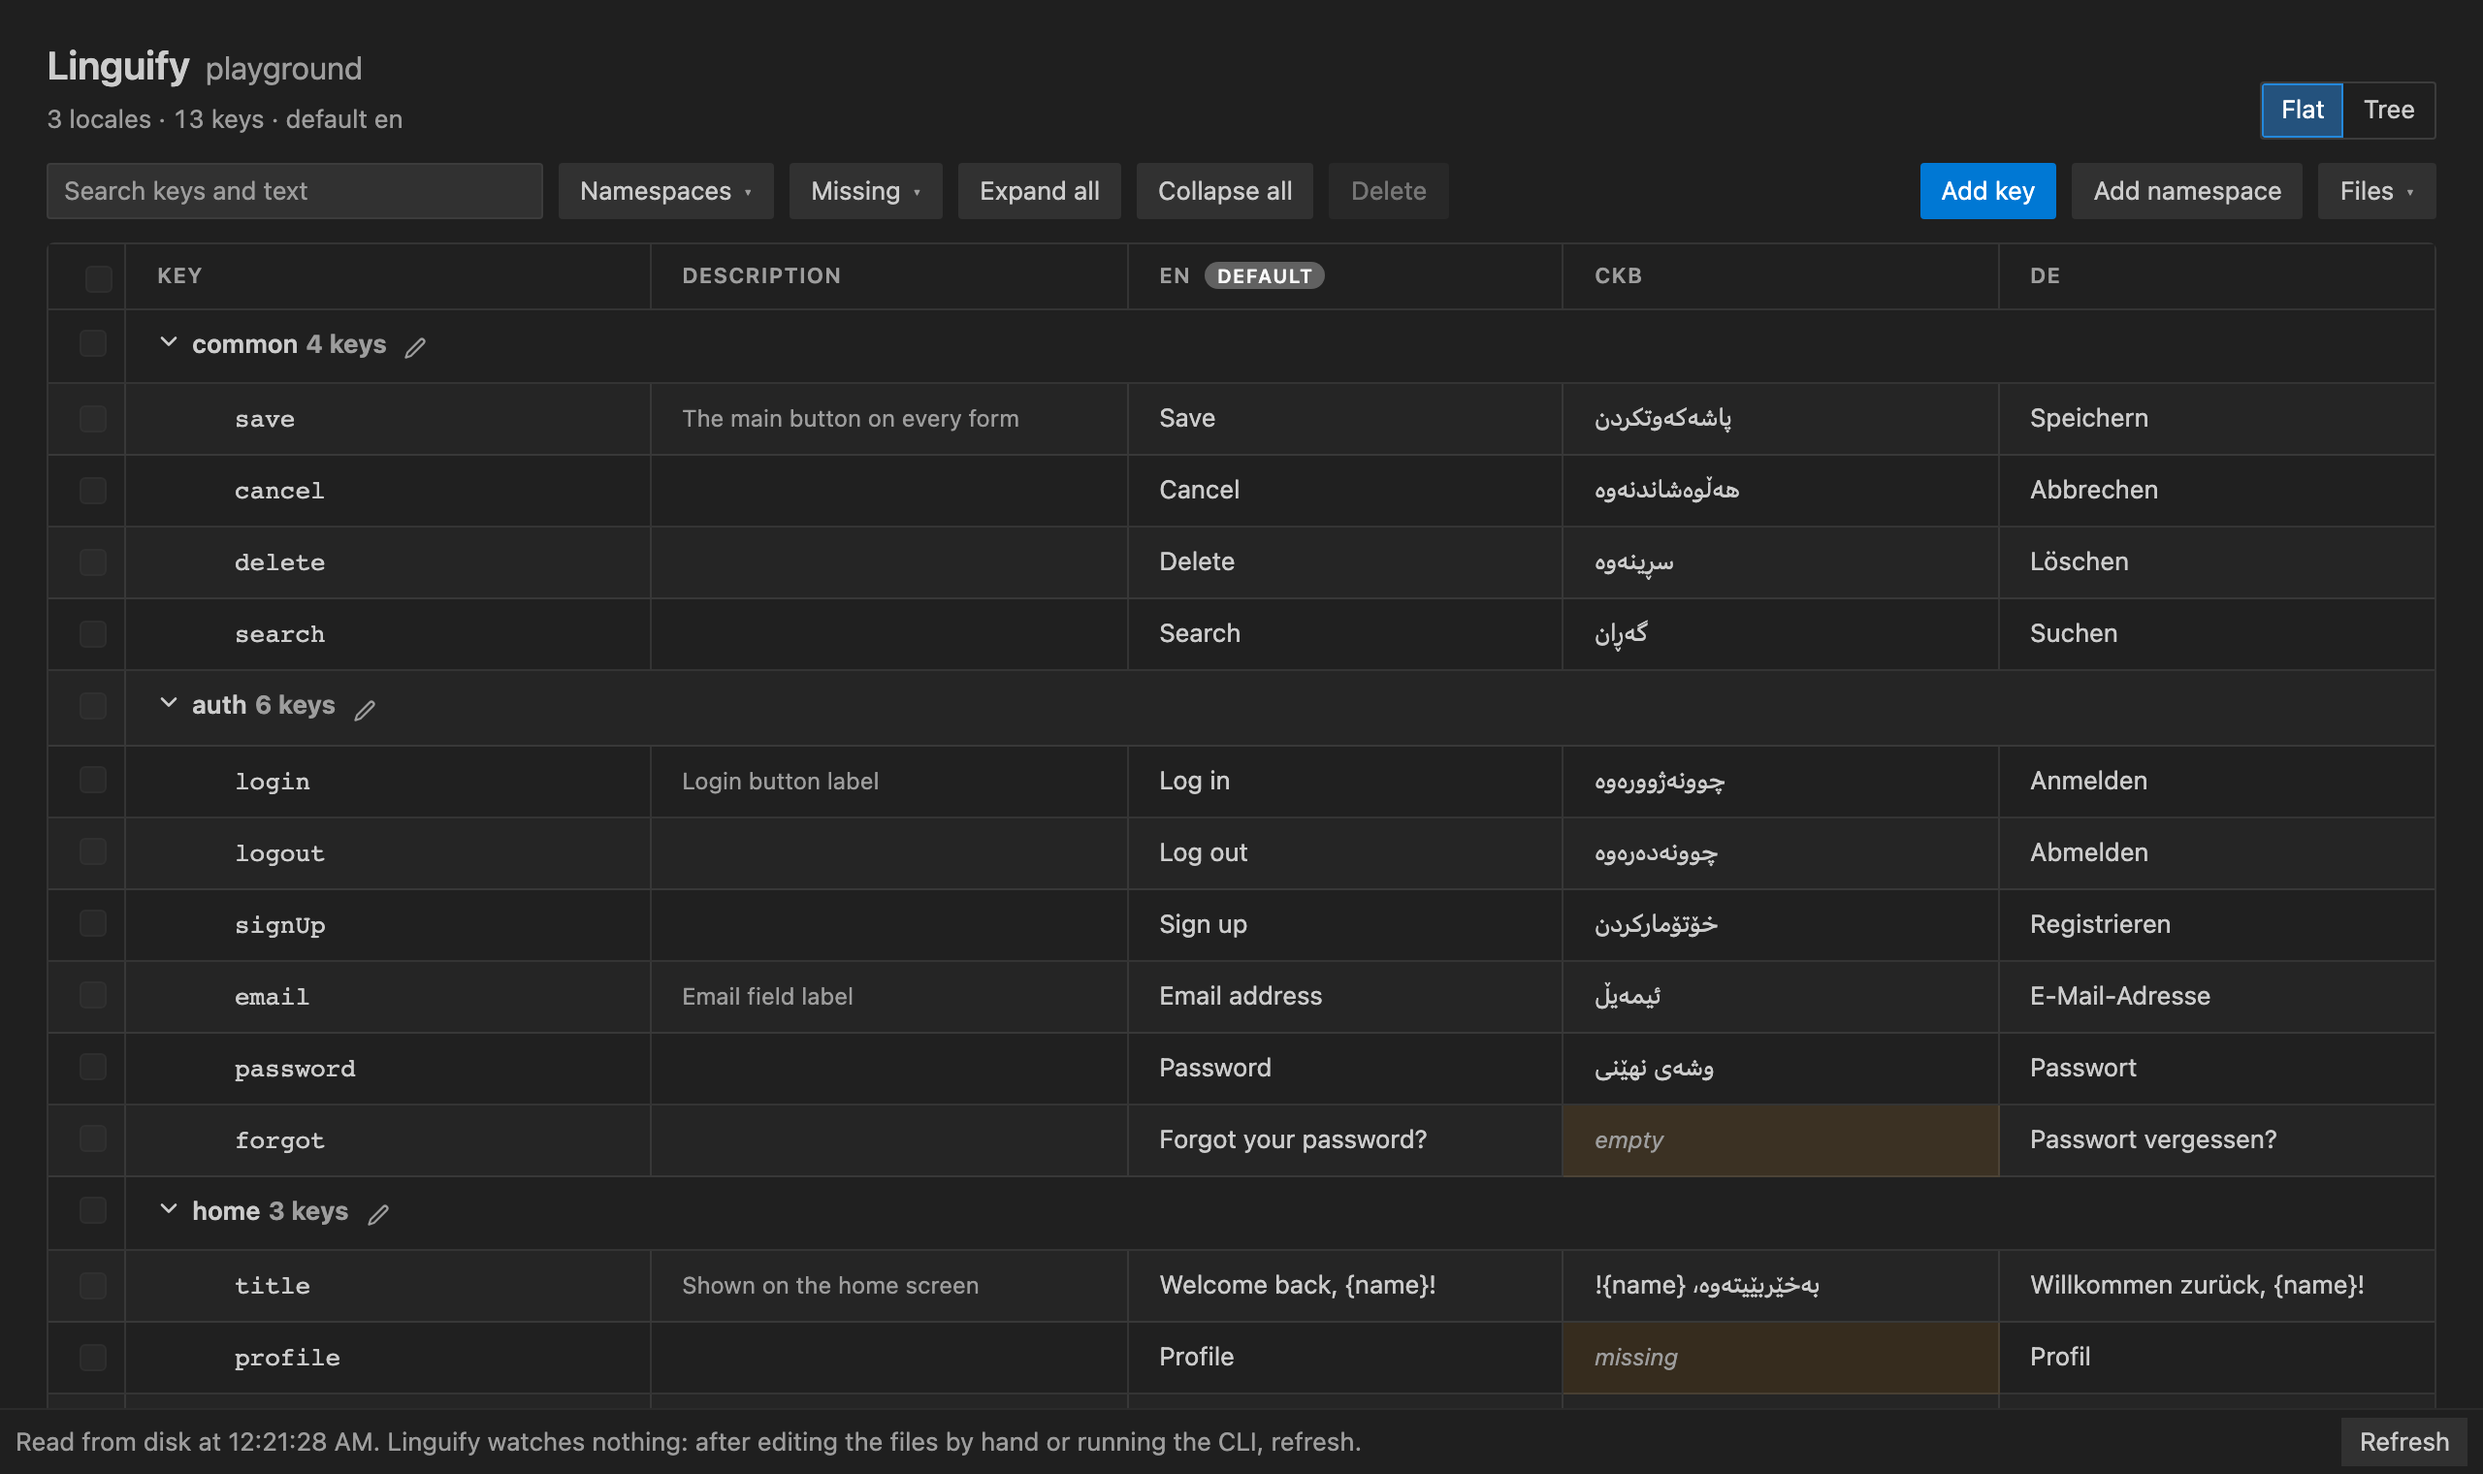
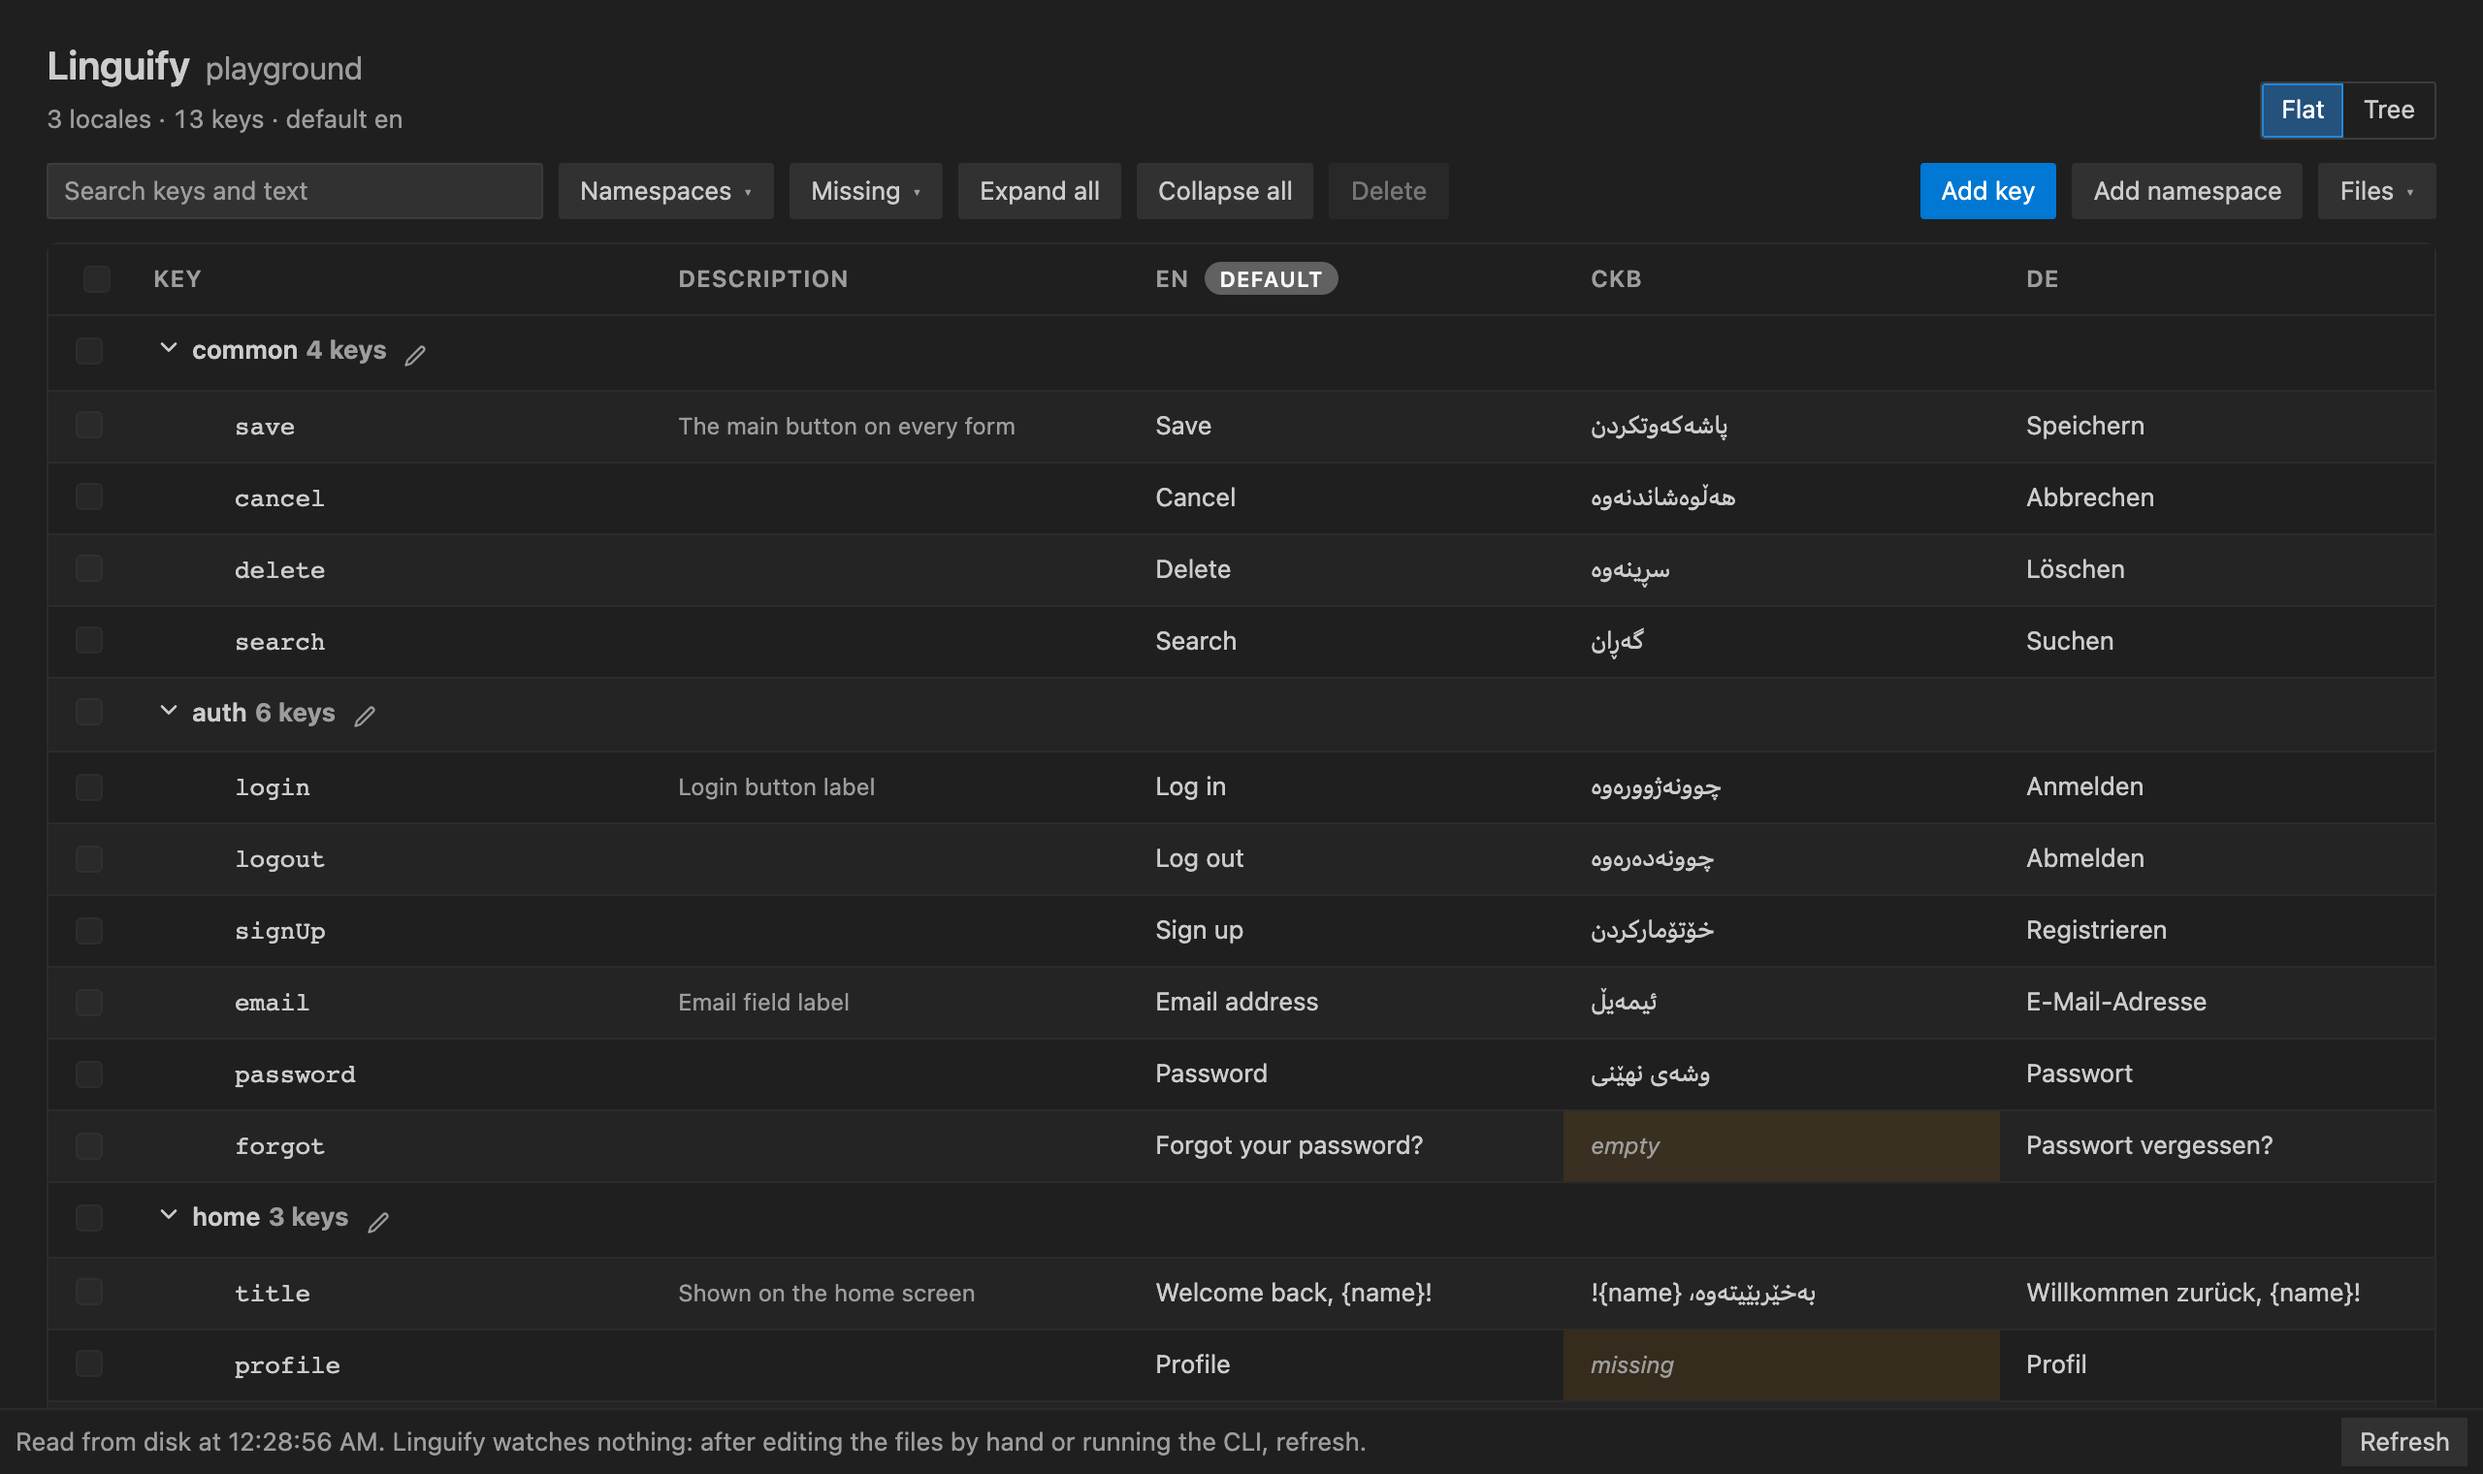
Draw the panel's table as Stringboard draws its catalog: row lines only, a 3% stripe, its header, padding and pill

diff --git a/apps/extension/src/webview/grid.tsx b/apps/extension/src/webview/grid.tsx
@@ -113,7 +113,7 @@ export const Grid = ({
 				ref={tableRef}
 				id={tableId}
 				aria-label={studioText.translations}
-				className="w-full table-fixed border-separate border-spacing-0 rounded-md border border-row-border bg-surface text-start"
+				className="w-full table-fixed border-separate border-spacing-0 rounded-[6px] border border-row-border text-start"
 				onFocus={event => rove(event.currentTarget, event.target)}
 				onKeyDown={event => {
 					const to = controlAfter(event.currentTarget, event)
@@ -131,7 +131,7 @@ export const Grid = ({
 						<col key={locale} />
 					))}
 				</colgroup>
-				<thead className="sticky top-0 z-10 bg-surface">
+				<thead className="sticky top-0 z-10 bg-background">
 					<tr>
 						<th scope="col" data-select className={`w-0 ${selectCellClass}`}>
 							<Tick
@@ -155,7 +155,7 @@ export const Grid = ({
 								{locale === source.default && (
 									<>
 										{' '}
-										<span className="ms-1 rounded-full bg-badge px-1.5 py-px text-[0.625rem] text-badge-foreground">
+										<span className="ms-1 rounded-full bg-badge-prominent px-2 py-0.5 text-[0.6875rem] text-badge-prominent-foreground tracking-[0.5px]">
 											{studioText.defaultLocale}
 										</span>
 									</>
@@ -350,7 +350,7 @@ const KeyLine = memo(
 			<th
 				scope="row"
 				title={row.key}
-				className={`${cellClass} font-mono font-normal text-[0.8125rem]`}
+				className={`${cellClass} font-medium font-mono text-[0.8125rem]`}
 				style={{ paddingInlineStart: rowIndent(depth) }}
 			>
 				<span className="flex items-start gap-1.5">
@@ -580,7 +580,7 @@ const Mark = ({ mark }: { mark: TableMark }) =>
 	)
 
 const headClass =
-	'border-row-border border-b px-4 py-2 text-start font-semibold text-[0.6875rem] text-muted-foreground uppercase tracking-wider'
-const cellClass = 'border-row-border border-b px-4 py-2 text-start break-words'
-const selectCellClass = 'border-row-border border-b pt-2.5 pb-2 ps-4 pe-1 align-top leading-none'
+	'whitespace-nowrap border-row-border border-b px-3.5 py-2.5 text-start font-semibold text-muted-foreground text-xs uppercase tracking-[0.5px]'
+const cellClass = 'border-row-border border-b px-3.5 py-2 text-start break-words'
+const selectCellClass = 'border-row-border border-b pt-2.5 pb-2 ps-3.5 pe-1 align-top leading-none'
 const lineClass = 'group/row hover:bg-hover data-[state=selected]:bg-chosen/40'

diff --git a/apps/extension/src/webview/webview.css b/apps/extension/src/webview/webview.css
@@ -36,12 +36,14 @@
 	--color-primary-hover: var(--vscode-button-hoverBackground);
 	--color-control-hover: var(--vscode-button-secondaryHoverBackground);
 	--color-surface: var(--vscode-editorWidget-background, var(--vscode-editor-background));
-	--color-row-border: var(--vscode-editorGroup-border, var(--vscode-panel-border, transparent));
+	--color-row-border: var(--vscode-panel-border, var(--vscode-editorGroup-border, transparent));
 	--color-hover: var(--vscode-list-hoverBackground);
 	--color-badge: var(--vscode-badge-background);
 	--color-badge-foreground: var(--vscode-badge-foreground);
-	--color-gap-missing: color-mix(in srgb, var(--vscode-charts-orange, #d18616) 13%, transparent);
-	--color-gap-extra: color-mix(in srgb, var(--vscode-charts-blue, #3794ff) 12%, transparent);
+	--color-badge-prominent: var(--vscode-statusBarItem-prominentBackground, var(--vscode-badge-background));
+	--color-badge-prominent-foreground: var(--vscode-statusBarItem-prominentForeground, var(--vscode-badge-foreground));
+	--color-gap-missing: var(--vscode-editorWarning-background, rgb(245 158 11 / 10%));
+	--color-gap-extra: var(--vscode-editorInfo-background, rgb(55 148 255 / 10%));
 	--font-sans: var(--vscode-font-family);
 	--font-mono: var(--vscode-editor-font-family);
 	--radius-sm: 2px;
@@ -65,19 +67,14 @@ body {
 	outline: 1px solid var(--color-extra-border);
 }
 
-/* the grid drawn as a plain table: a line between every column as between every row — never after the
-   last — and every other row a shade apart, faint enough that hover, a selection and a tint still show */
-#translations th,
-#translations td {
-	border-inline-end: 1px solid var(--color-row-border);
-}
-
-#translations tr > :last-child {
-	border-inline-end: none;
+/* the grid drawn as Stringboard draws its catalog: a line between rows, none after the last, none between
+   columns, and every other row a shade apart, faint enough that hover, a selection and a tint still show */
+#translations tbody tr:last-child > * {
+	border-bottom: none;
 }
 
 :where(#translations tbody tr:nth-child(even)) {
-	background: color-mix(in srgb, var(--color-foreground) 3.5%, transparent);
+	background: color-mix(in srgb, var(--color-foreground) 3%, transparent);
 }
 
 /* a text still to translate, or one the default lacks: its whole cell tinted, as a spreadsheet shows it */
